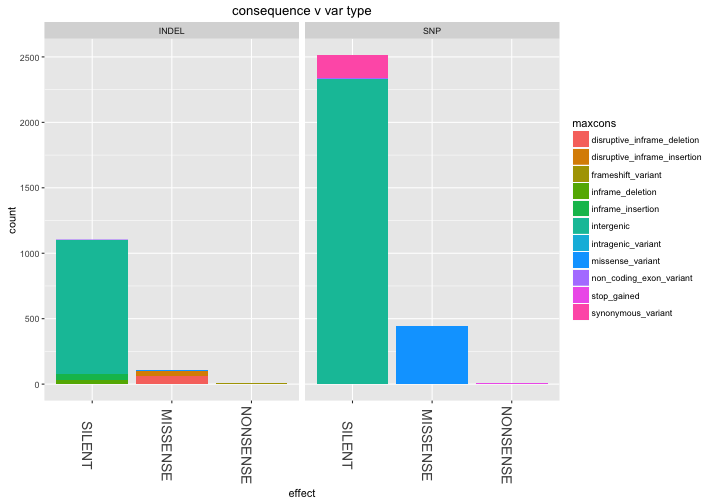
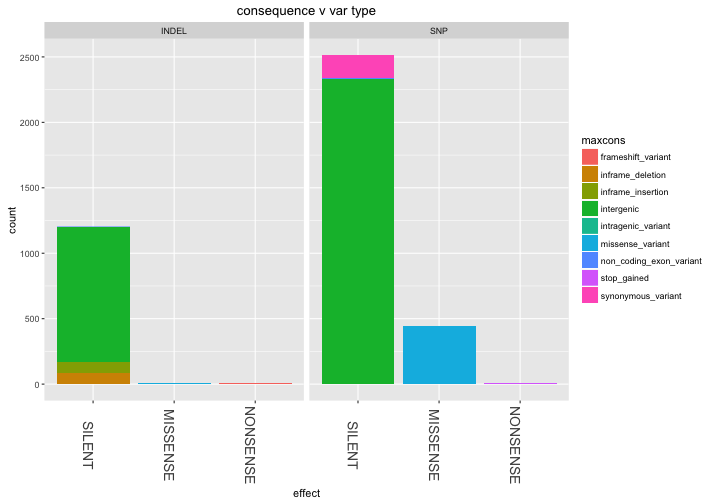
updated vartype analysis

diff --git a/reports/170112_vartype_frequencies/runAnalysis_vartypes.md b/reports/170112_vartype_frequencies/runAnalysis_vartypes.md
@@ -37,6 +37,10 @@ vartypes$maxcons = vartypes$consequence
 vartypes$maxcons[vartypes$consequence==""] <- "intergenic"
 vartypes$maxcons <- unlist(lapply(vartypes$maxcons,FUN=function(x) {unlist(strsplit(x,split ='&'))[[1]]}))
 
+vartypes$maxcons[vartypes$consequence=="disruptive_inframe_deletion"] <- "inframe_deletion"
+vartypes$maxcons[vartypes$consequence=="disruptive_inframe_insertion"] <- "inframe_insertion"
+
+
 vartypes$effect="NONE"
 vartypes$effect[vartypes$maxcons %in% c("inframe_insertion","inframe_deletion","synonymous_variant","intergenic","intragenic_variant","non_coding_exon_variant")] <- "SILENT"
 vartypes$effect[vartypes$maxcons %in% c("missense_variant","disruptive_inframe_insertion","disruptive_inframe_deletion","splice_region_variant")] <- "MISSENSE"
@@ -93,21 +97,49 @@ table(vartypes[,c("vartype","STRtype")])
 ```
 
 ```r
+table(vartypes[,c("coding","STRtype")])
+```
+
+```
+##       STRtype
+## coding      polyA  STR TArep TArich
+##      0 2028   121 1192     6      9
+##      1  502     1  333     0      3
+```
+
+```r
+pctable <- function(X) {
+  t(round(t(table(X)) / apply(table(X),2,FUN=sum),3)*100)
+  }
+
 #RELATIVELY SMALL NUMBER OF CODING SNPs ARE polyA REPEATS (possible difficulties in calling really long TA repeats?)
 table(indels[,c("maxcons","STR")])
 ```
 
 ```
-##                               STR
-## maxcons                          0   1
-##   disruptive_inframe_deletion   30  29
-##   disruptive_inframe_insertion  22  16
-##   frameshift_variant             9   3
-##   inframe_deletion              13  15
-##   inframe_insertion             31  16
-##   intergenic                   639 386
-##   missense_variant               5   7
-##   non_coding_exon_variant        4   0
+##                          STR
+## maxcons                     0   1
+##   frameshift_variant        9   3
+##   inframe_deletion         43  44
+##   inframe_insertion        53  32
+##   intergenic              639 386
+##   missense_variant          5   7
+##   non_coding_exon_variant   4   0
+```
+
+```r
+pctable(indels[,c("maxcons","STR")])
+```
+
+```
+##                          STR
+## maxcons                      0    1
+##   frameshift_variant       1.2  0.6
+##   inframe_deletion         5.7  9.3
+##   inframe_insertion        7.0  6.8
+##   intergenic              84.9 81.8
+##   missense_variant         0.7  1.5
+##   non_coding_exon_variant  0.5  0.0
 ```
 
 ```r
@@ -126,24 +158,77 @@ table(snps[,c("maxcons","STR")])
 ```
 
 ```r
+pctable(snps[,c("maxcons","STR")])
+```
+
+```
+##                          STR
+## maxcons                      0    1
+##   intergenic              78.2 79.0
+##   intragenic_variant       0.0  0.1
+##   missense_variant        14.5 15.7
+##   non_coding_exon_variant  0.6  0.0
+##   stop_gained              0.3  0.5
+##   synonymous_variant       6.4  4.8
+```
+
+```r
 #RELATIVELY SMALL NUMBER OF CODING SNPs ARE polyA REPEATS (possible difficulties in calling really long TA repeats?)
 table(vartypes[,c("maxcons","vartype")])
 ```
 
 ```
-##                               vartype
-## maxcons                        INDEL  SNP
-##   disruptive_inframe_deletion     59    0
-##   disruptive_inframe_insertion    38    0
-##   frameshift_variant              12    0
-##   inframe_deletion                28    0
-##   inframe_insertion               47    0
-##   intergenic                    1025 2331
-##   intragenic_variant               0    1
-##   missense_variant                12  445
-##   non_coding_exon_variant          4   10
-##   stop_gained                      0   12
-##   synonymous_variant               0  171
+##                          vartype
+## maxcons                   INDEL  SNP
+##   frameshift_variant         12    0
+##   inframe_deletion           87    0
+##   inframe_insertion          85    0
+##   intergenic               1025 2331
+##   intragenic_variant          0    1
+##   missense_variant           12  445
+##   non_coding_exon_variant     4   10
+##   stop_gained                 0   12
+##   synonymous_variant          0  171
+```
+
+```r
+pctable(vartypes[,c("maxcons","vartype")])
+```
+
+```
+##                          vartype
+## maxcons                   INDEL  SNP
+##   frameshift_variant        1.0  0.0
+##   inframe_deletion          7.1  0.0
+##   inframe_insertion         6.9  0.0
+##   intergenic               83.7 78.5
+##   intragenic_variant        0.0  0.0
+##   missense_variant          1.0 15.0
+##   non_coding_exon_variant   0.3  0.3
+##   stop_gained               0.0  0.4
+##   synonymous_variant        0.0  5.8
+```
+
+```r
+table(vartypes[,c("vartype","effect")])
+```
+
+```
+##        effect
+## vartype SILENT MISSENSE NONSENSE
+##   INDEL   1201       12       12
+##   SNP     2513      445       12
+```
+
+```r
+table(vartypes[,c("vartype","effect")])
+```
+
+```
+##        effect
+## vartype SILENT MISSENSE NONSENSE
+##   INDEL   1201       12       12
+##   SNP     2513      445       12
 ```
 
 ```r
@@ -155,6 +240,17 @@ table(vartypes[,c("coding","vartype")])
 ## coding INDEL  SNP
 ##      0  1025 2331
 ##      1   200  639
+```
+
+```r
+pctable(vartypes[,c("coding","vartype")])
+```
+
+```
+##       vartype
+## coding INDEL  SNP
+##      0  83.7 78.5
+##      1  16.3 21.5
 ```
 
 ```r
